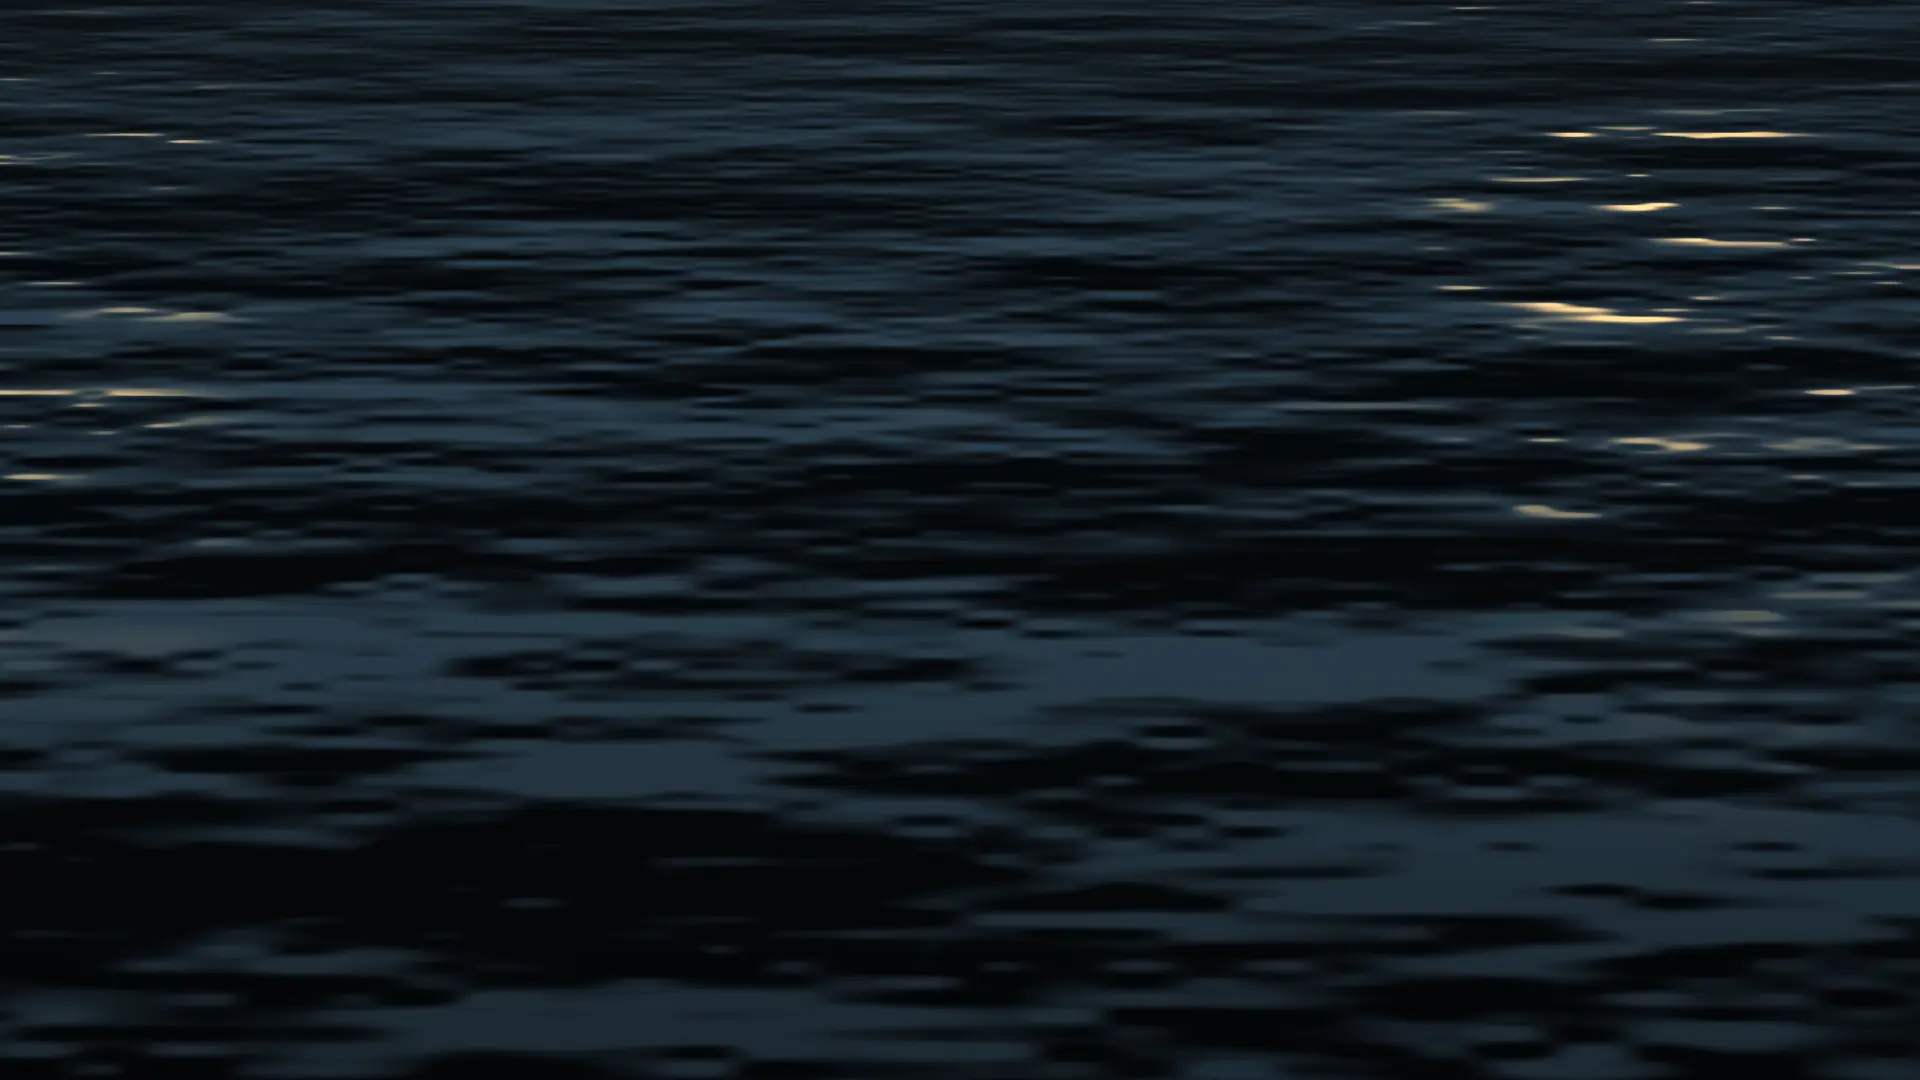
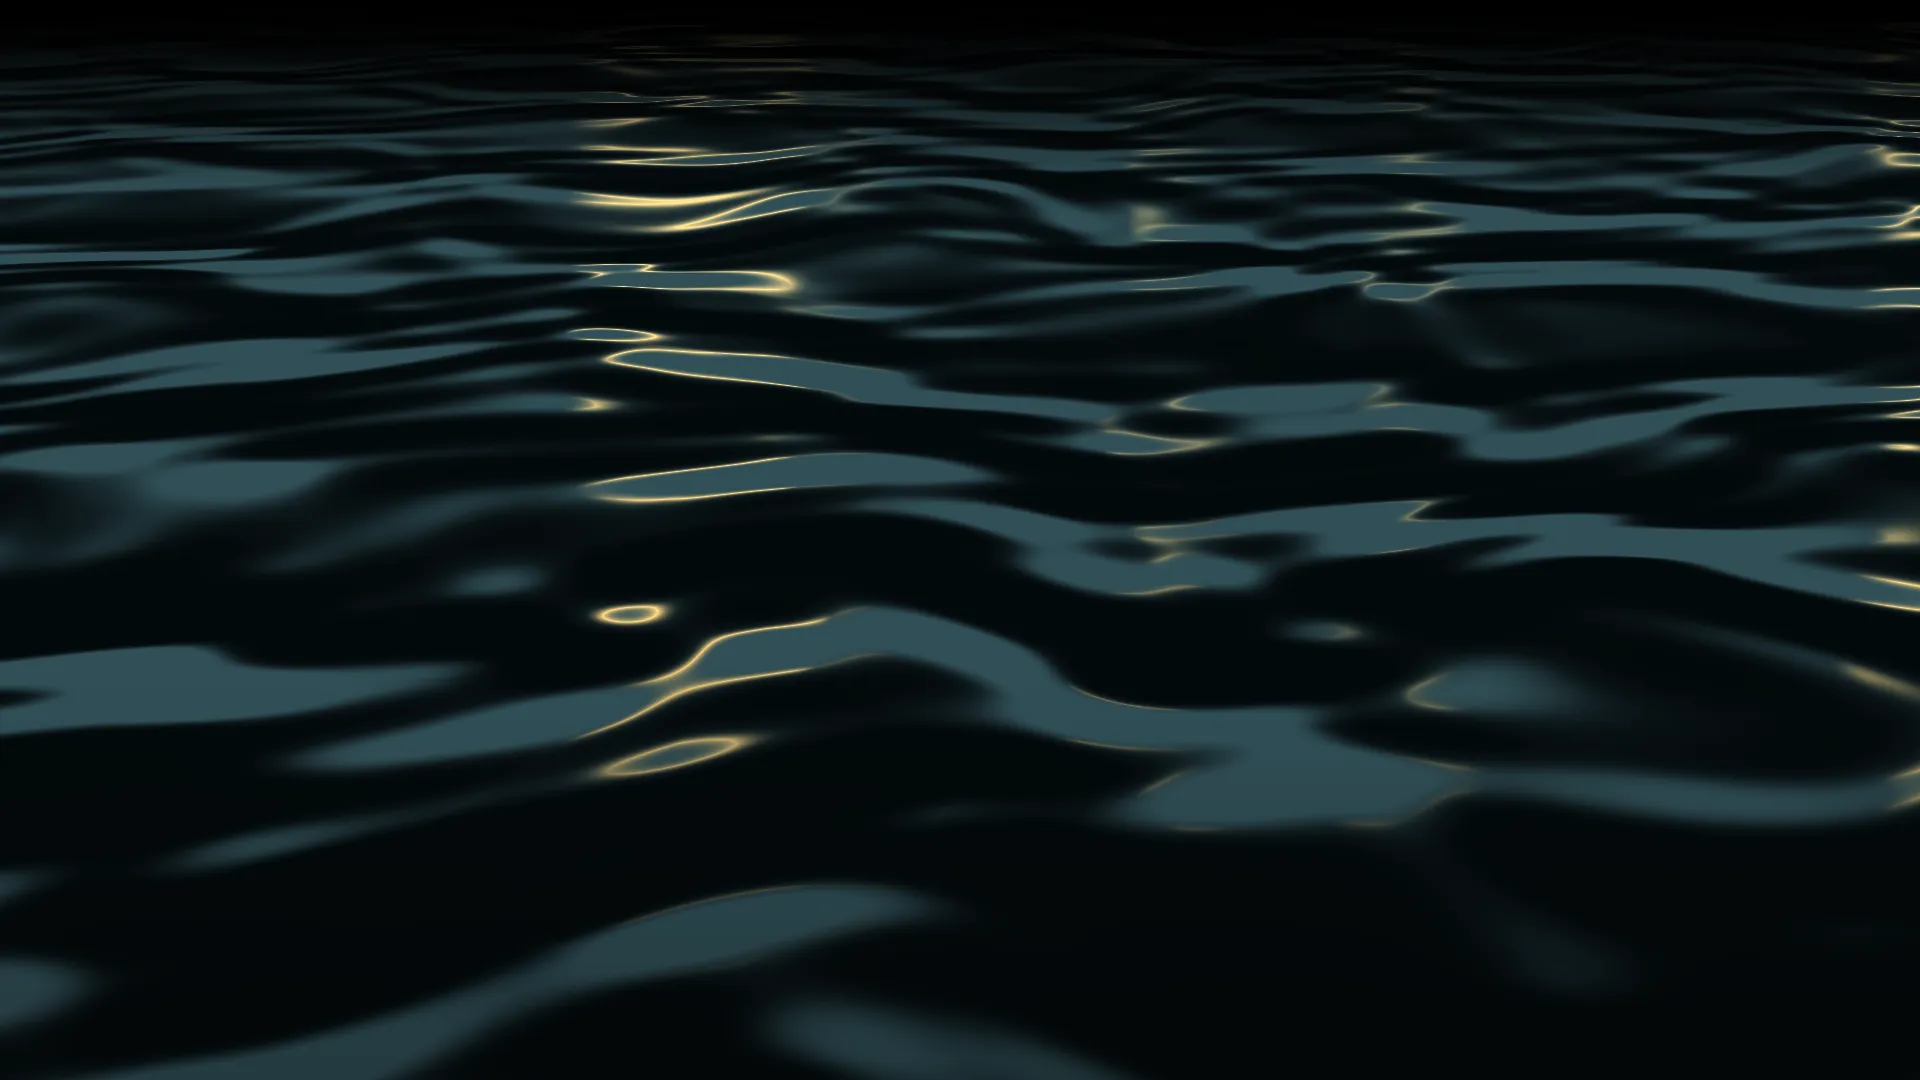
Water: Venice-like dark teal night water with smooth glossy ripples, golden glints, dark far edge; new matching poster

diff --git a/src/components/WaterBackground.tsx b/src/components/WaterBackground.tsx
@@ -2,8 +2,9 @@
 import { useEffect, useRef, useState } from "react";
 
 /**
- * Full-screen realistic moving-water background: a night lake surface with
- * rippling crests and warm golden light glints (WebGL),
+ * Full-screen realistic moving-water background (venice.ai-like): dark teal
+ * night water with smooth glossy ripples, reflected sky, warm golden glints and
+ * a far edge that fades into darkness (WebGL),
  * with a dark cinematic tint/vignette and a bottom-right pause/play toggle.
  * Falls back to a static deep-water gradient when WebGL is unavailable.
  * Starts paused for users who prefer reduced motion.
@@ -27,52 +28,59 @@ float noise(vec2 p){
   return mix(mix(hash(i), hash(i + vec2(1.0, 0.0)), u.x),
              mix(hash(i + vec2(0.0, 1.0)), hash(i + vec2(1.0, 1.0)), u.x), u.y);
 }
+// smooth, glossy ripples: a few directional waves, domain-warped so crests wander like real water
 float height(vec2 p, float t){
-  vec2 q = vec2(p.x * 0.55, p.y * 1.8);
-  float h = 0.0, a = 0.5;
-  for (int i = 0; i < 5; i++) {
-    float fi = float(i);
-    h += a * noise(q + vec2(t * 0.15 * (fi + 1.0), -t * (0.35 + 0.12 * fi)));
-    q = q * 2.07 + vec2(1.7, 9.2);
-    a *= 0.5;
-  }
-  h += 0.08 * sin(p.y * 2.6 - t * 0.9 + sin(p.x * 0.7) * 1.2);
+  vec2 w = vec2(noise(p * 0.35 + t * 0.05), noise(p * 0.35 + 7.3 - t * 0.04)) - 0.5;
+  p += w * 2.2;
+  float h = 0.0;
+  h += 0.50 * sin(dot(p, vec2(0.10, 1.00)) * 1.6 - t * 0.9);
+  h += 0.32 * sin(dot(p, vec2(0.55, 0.83)) * 2.3 - t * 1.1 + 1.3);
+  h += 0.28 * sin(dot(p, vec2(-0.62, 0.78)) * 2.0 - t * 0.8 + 4.1);
+  h += 0.16 * sin(dot(p, vec2(0.92, 0.38)) * 3.7 - t * 1.4 + 2.2);
+  h += 0.12 * sin(dot(p, vec2(-0.30, 0.95)) * 5.1 - t * 1.7 + 0.7);
+  h += 0.25 * (noise(p * 1.3 - vec2(0.0, t * 0.3)) - 0.5);
   return h;
 }
 
 void main(){
   vec2 uv = gl_FragCoord.xy / u_res;
   float aspect = u_res.x / u_res.y;
-  float horizon = 1.55;
+  // camera low over the water: rows near the top are far away
+  float horizon = 1.25;
   float depth = 1.0 / (horizon - uv.y);
-  vec2 p = vec2((uv.x - 0.5) * aspect * depth * 2.2, depth * 4.2);
+  vec2 p = vec2((uv.x - 0.5) * aspect * depth * 6.0, depth * 13.0);
   float t = u_time;
 
-  float e = 0.02 * depth;
+  float e = 0.015 * depth;
   float h  = height(p, t);
-  float hx = height(p + vec2(e, 0.0), t) - h;
-  float hy = height(p + vec2(0.0, e), t) - h;
-  vec2 g = vec2(hx, hy) / e;
+  float gx = (height(p + vec2(e, 0.0), t) - h) / e;
+  float gy = (height(p + vec2(0.0, e), t) - h) / e;
 
-  // facet facing viewer reflects the brighter sky; facing away reflects dark water
-  float tilt = g.y * 0.30 / depth;
-  float sky = clamp(0.5 + tilt * 1.1, 0.0, 1.0);
+  // foreshortening: far ripples look flatter and finer
+  float slope = 0.26 / depth;
+  vec3 n = normalize(vec3(-gx * slope, 1.0, -gy * slope));
+  vec3 v = normalize(vec3((uv.x - 0.5) * 0.6, -0.18 - (1.0 - uv.y) * 0.35, 1.0));
+  vec3 r = reflect(v, n);
 
-  vec3 dark = vec3(0.020, 0.032, 0.042);
-  vec3 lit  = vec3(0.17, 0.25, 0.31);
-  vec3 col = mix(dark, lit, smoothstep(0.15, 0.95, sky));
+  // dark night sky: faint teal glow low on the horizon
+  float sky = smoothstep(-0.05, 0.45, r.y);
+  float fres = 0.04 + 0.96 * pow(1.0 - max(dot(n, -v), 0.0), 5.0);
+  vec3 deep = vec3(0.012, 0.035, 0.042);
+  vec3 skyLow = vec3(0.19, 0.31, 0.34);
+  vec3 skyHigh = vec3(0.03, 0.06, 0.07);
+  vec3 refl = mix(skyLow, skyHigh, sky);
+  vec3 col = mix(deep, refl, smoothstep(0.0, 0.9, fres * 1.6));
 
-  // golden glints: distant lights reflected on crests, concentrated toward the top and right
-  float cols = smoothstep(0.25, 0.70, noise(vec2(uv.x * 6.0 + 3.0, 0.5)));
-  float lights = smoothstep(0.30, 0.90, uv.y) * cols * 1.2;
-  lights += 0.8 * smoothstep(0.6, 1.0, uv.x) * smoothstep(0.2, 0.65, uv.y) * smoothstep(0.3, 0.7, noise(vec2(uv.x * 9.0, uv.y * 4.0)));
-  float crest = smoothstep(0.70, 0.95, sky) * smoothstep(0.25, 0.65, noise(p * vec2(2.5, 9.0) + vec2(0.0, -t * 0.8)));
-  float glint = crest * clamp(lights, 0.0, 1.0);
-  col += vec3(0.95, 0.66, 0.30) * glint * 1.1;
+  // warm lights on a far shore -> glints stretched in vertical columns
+  float lx = uv.x + r.x * 0.25;
+  float colm = smoothstep(0.55, 0.85, noise(vec2(lx * 7.0, 1.7))) + 0.7 * smoothstep(0.6, 0.9, noise(vec2(lx * 13.0, 5.1)));
+  float spec = pow(clamp(1.0 - abs(r.y - 0.03) * 6.0, 0.0, 1.0), 3.0);
+  float glint = colm * spec * smoothstep(0.05, 0.45, uv.y);
+  col += vec3(1.0, 0.72, 0.32) * glint * 1.3;
 
-  // haze toward the horizon, darker foreground
-  col = mix(col, vec3(0.10, 0.13, 0.15), smoothstep(0.75, 1.0, uv.y) * 0.25);
-  col *= mix(0.65, 1.0, smoothstep(0.0, 0.6, uv.y));
+  // depth of field: far water sinks into darkness
+  col *= mix(1.0, 0.0, smoothstep(0.80, 1.0, uv.y));
+  col *= mix(0.75, 1.0, smoothstep(0.0, 0.4, uv.y));
   gl_FragColor = vec4(col, 1.0);
 }
 `;
@@ -206,11 +214,11 @@ export default function WaterBackground() {
   return (
     <>
       <WaterCanvas playing={playing} />
-      <div aria-hidden="true" className="pointer-events-none fixed inset-0 -z-10 bg-black/30" />
+      <div aria-hidden="true" className="pointer-events-none fixed inset-0 -z-10 bg-black/15" />
       <div
         aria-hidden="true"
         className="pointer-events-none fixed inset-0 -z-10"
-        style={{ background: "radial-gradient(ellipse at center, rgba(0,0,0,0) 45%, rgba(0,0,0,0.6) 100%)" }}
+        style={{ background: "radial-gradient(ellipse at center, rgba(0,0,0,0) 55%, rgba(0,0,0,0.45) 100%)" }}
       />
       <button
         type="button"
